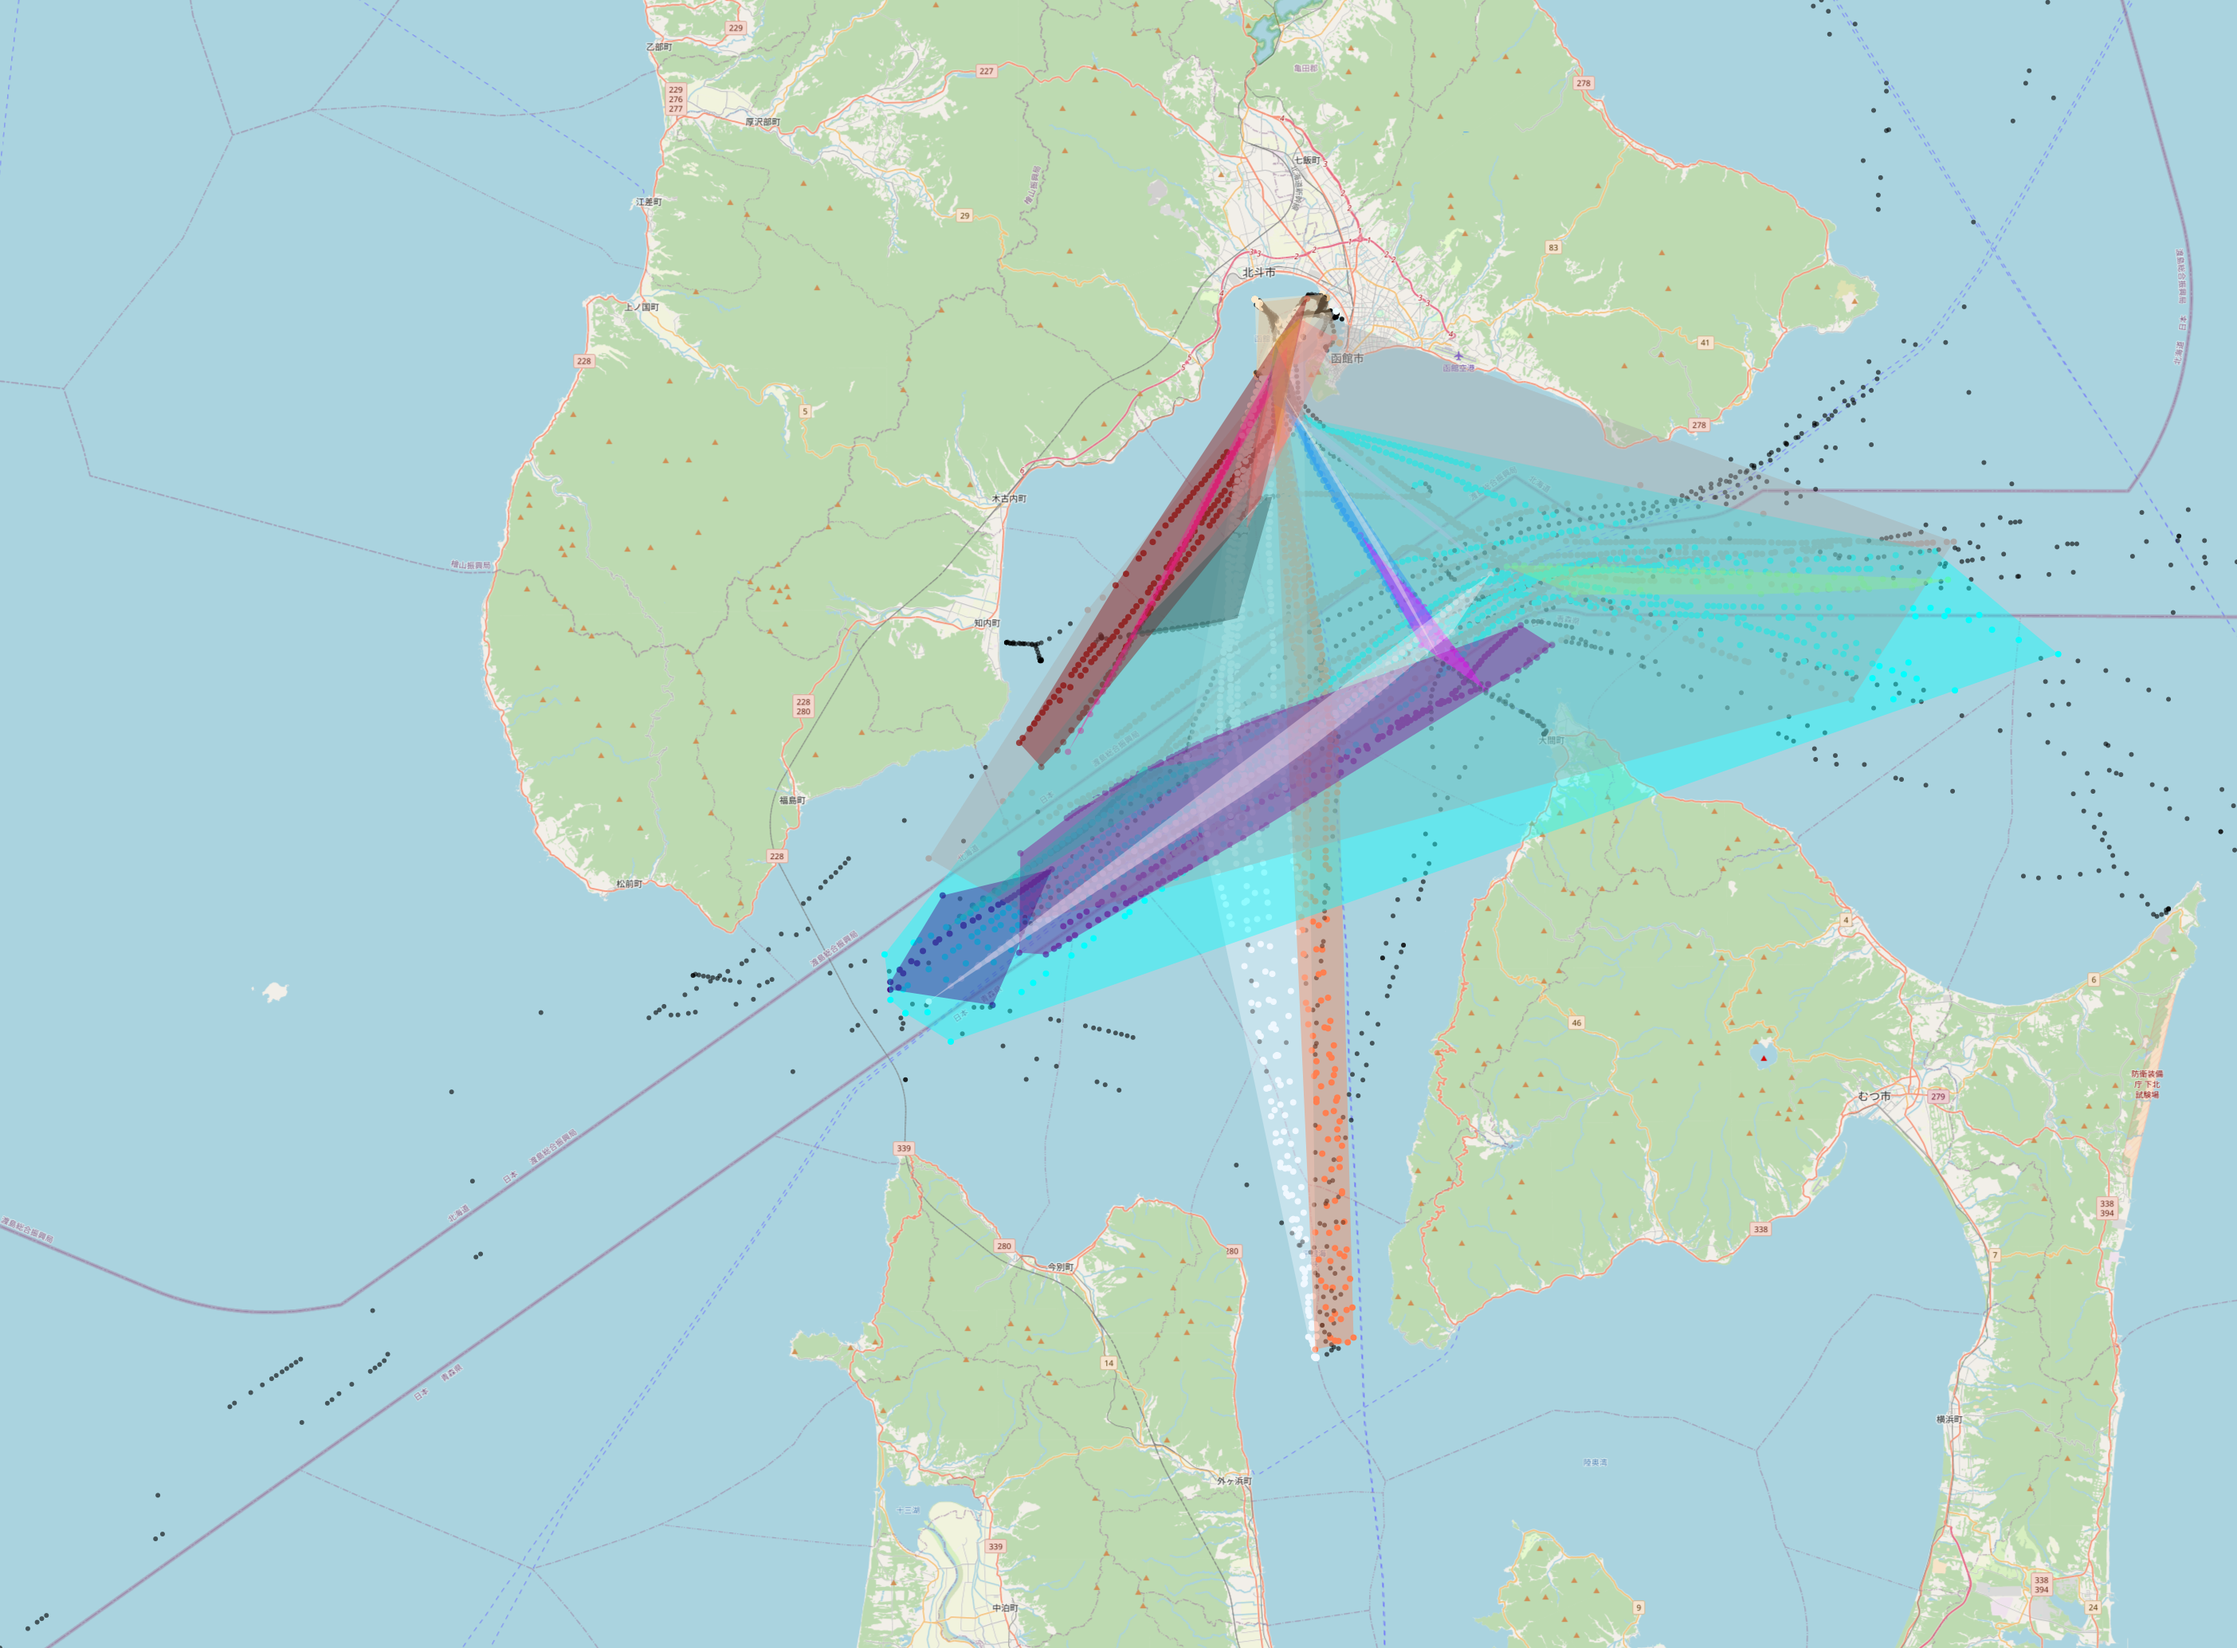
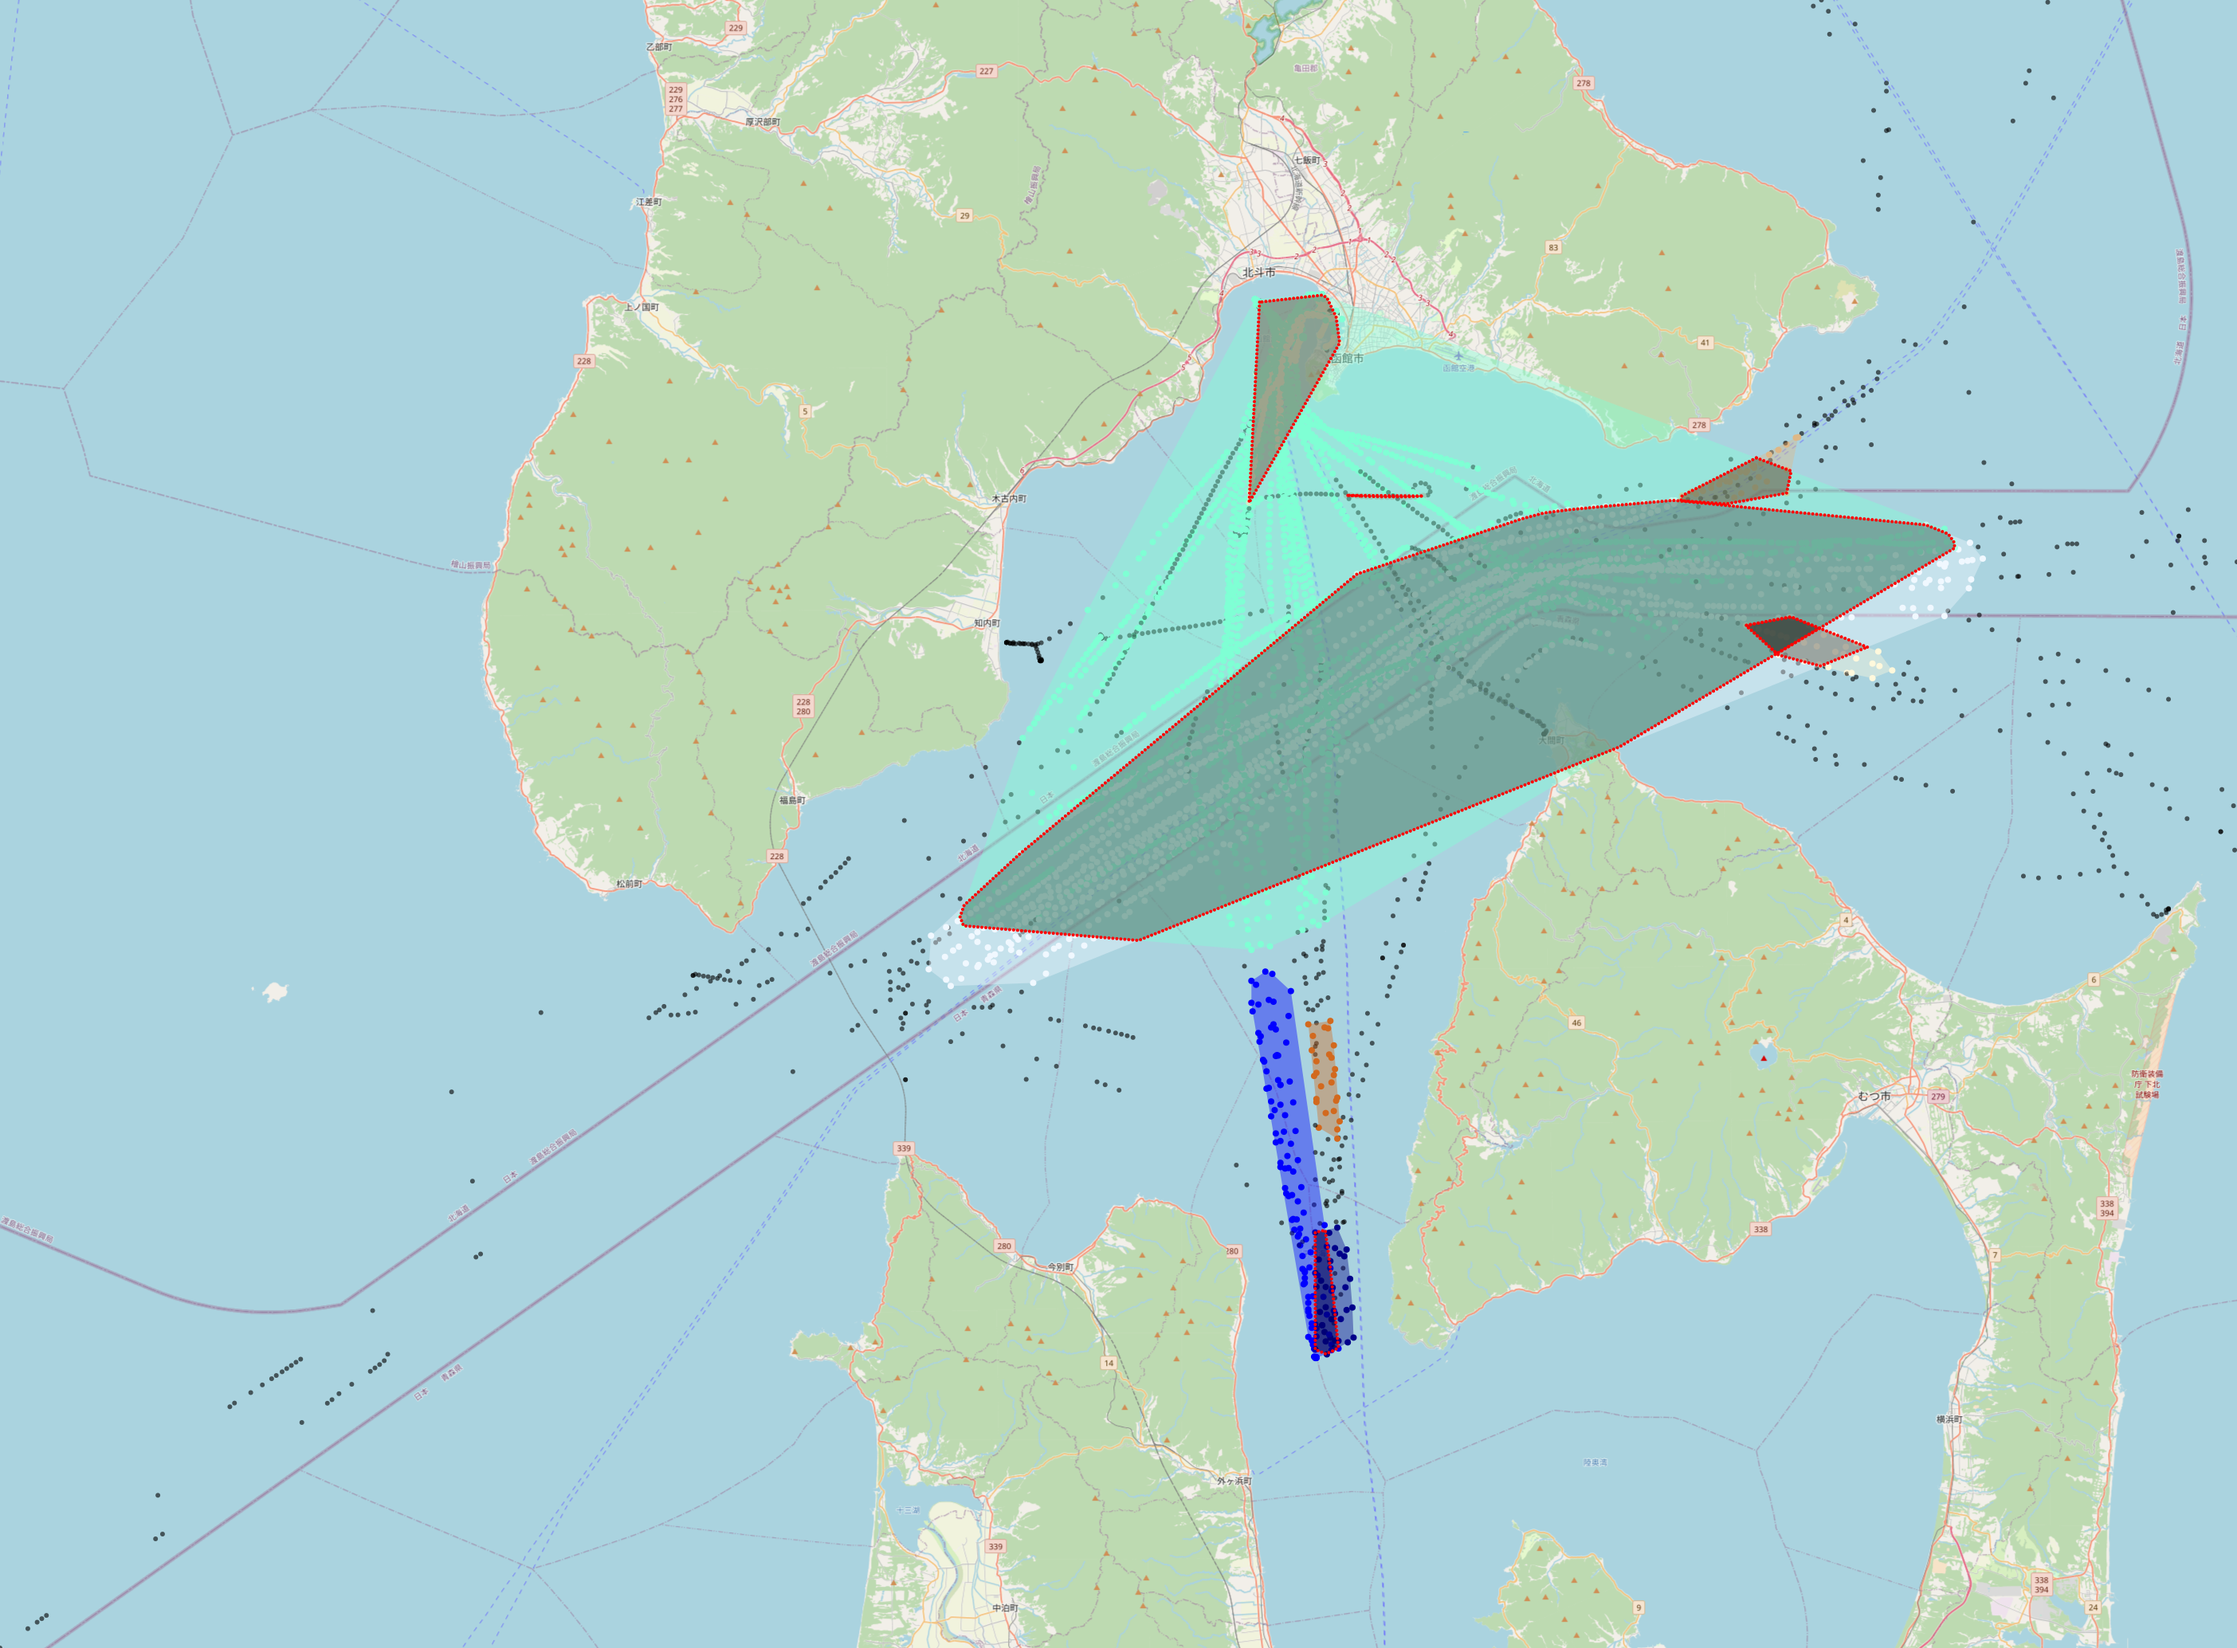
Добавлена обработка пересечения полигонов, на границу пересечения нанесены точки с задаваемым интервалом

Changed region(s): [[0.3719, 0.1547, 0.9298, 0.8356]]

diff --git a/CODE/Map/map.py b/CODE/Map/map.py
@@ -8,6 +8,7 @@ import math
 import mercantile
 import matplotlib.colors as mcolors
 import shapely
+import numpy as np
 
 
 def get_map(west, south, east, north, zoom, df, name, create_new_clean_map=False):
@@ -123,6 +124,7 @@ def map_paint(map_image, df, left_top, kx, ky, name):
 
     context = Context(map_image)
     df1 = pandas.DataFrame(columns=['x', 'y', 'cluster'])
+    color_costyl = 3
     for i, row in df.iterrows():
         # gps в web-mercator
         x, y = mercantile.xy(row['lat'], row['lon'])
@@ -138,9 +140,9 @@ def map_paint(map_image, df, left_top, kx, ky, name):
                 alpha = 0.6
                 r = 3
             else:
-                red = colors[int(row['cluster']) * 4][0]
-                green = colors[int(row['cluster']) * 4][1]
-                blue = colors[int(row['cluster']) * 4][2]
+                red = colors[int(row['cluster']) * color_costyl][0]
+                green = colors[int(row['cluster']) * color_costyl][1]
+                blue = colors[int(row['cluster']) * color_costyl][2]
                 alpha = 1
                 r = 4
         else:
@@ -153,24 +155,62 @@ def map_paint(map_image, df, left_top, kx, ky, name):
         # Добавляем расчитанную точку в новый датафрейм
         df1.loc[df1.shape[0]] = [x, y, row['cluster']]
 
+    # Создаем и добавляем полигоны
+    polygons = []
+    polygon_bounds = []
     if 'cluster' in df.columns:
         for i in range(int(max(df['cluster'])) + 1):
-            df2 = df1.where(df1['cluster'] == i).dropna(how='any')
-            polygon_geom = shapely.Polygon(zip(df2['x'].values.tolist(), df2['y'].values.tolist()))
+            polygons.append(df1.where(df1['cluster'] == i).dropna(how='any'))
+            polygon_geom = shapely.Polygon(zip(polygons[i]['x'].values.tolist(), polygons[i]['y'].values.tolist()))
             polygon_geom2 = shapely.geometry.LinearRing(polygon_geom.exterior.coords).convex_hull
-            try:
+            # Проверка класса polygon_geom2, без этого код может падать из-за Linestring вместо Polygon
+            if isinstance(polygon_geom2, shapely.Polygon):
                 a, b = polygon_geom2.exterior.coords.xy
-                bounds = tuple(list(zip(a, b)))
-                red = colors[i*4][0]
-                green = colors[i*4][1]
-                blue = colors[i*4][2]
+                polygon_bounds.append(tuple(list(zip(a, b))))
+                red = colors[i * color_costyl][0]
+                green = colors[i * color_costyl][1]
+                blue = colors[i * color_costyl][2]
                 alpha = 0.4
                 context.set_source_rgba(red, green, blue, alpha)
-                for dot in bounds:
+                # Берем последний элемент массива из-за рассинхронизации со счетчиком i
+                for dot in polygon_bounds[-1]:
                     context.line_to(dot[0], dot[1])
                 context.fill()
-            except AttributeError:
-                pass
+
+    # Ищем пересечения полигонов
+    intersections = []
+    intersection_bounds = []
+    for i in range(len(polygon_bounds)):
+        for j in range(i + 1, len(polygon_bounds)):
+            if shapely.intersects(shapely.Polygon(polygon_bounds[i]), shapely.Polygon(polygon_bounds[j])):
+                intersections.append(shapely.intersection(shapely.Polygon(polygon_bounds[i]),
+                                                          shapely.Polygon(polygon_bounds[j])))
+    for i in range(len(intersections)):
+        # Проверка, является ли i-ое intersection непустым (экземпляром класса Polygon)
+        if isinstance(intersections[i], shapely.Polygon):
+            a, b = intersections[i].exterior.coords.xy
+            intersection_bounds.append(tuple(list(zip(a, b))))
+    for i in range(len(intersection_bounds)):
+        red = 0
+        green = 0
+        blue = 0
+        alpha = 0.3
+        context.set_source_rgba(red, green, blue, alpha)
+        for dot in intersection_bounds[i]:
+            context.line_to(dot[0], dot[1])
+        context.fill()
+
+    # Накидываем точки на границу пересечения полигонов
+    # Пока что не сохраняю, для какого пересечения и каких кластеров получены точки
+    points = []
+    for i in range(len(intersection_bounds)):
+        distance_delta = 5
+        distances = np.arange(0, shapely.LineString(intersection_bounds[i]).length, distance_delta)
+        points.append([shapely.LineString(intersection_bounds[i]).interpolate(distance) for distance in distances])
+        for dot in points[-1]:
+            context.arc(dot.x, dot.y, 2, 0 * math.pi / 180, 360 * math.pi / 180)
+            context.set_source_rgba(255, 0, 0, 1)
+            context.fill()
 
     with open(f'../Map/clustered_{name}', 'wb') as f:
         map_image.write_to_png(f)

diff --git a/CODE/Main/main.py b/CODE/Main/main.py
@@ -1,12 +1,12 @@
-from sklearn.cluster import DBSCAN
-import numpy as np
-from Map.map import get_map
-from LoadData.load_data import load_data
 import mpu
+import numpy as np
+from sklearn.cluster import DBSCAN
+from LoadData.load_data import load_data
+from Map.map import get_map
 
 
 def main(nrows=None):
-    file_name = '11.11.2015'
+    file_name = '12.11.2015'
     # Пока что берем данные для одного дня, если брать больше - DBSCAN работает крайне долго
     df = load_data(f'{file_name}.xlsx', 'marine.xlsx', create_new_clean_xlsx=False)
     min_lat = df['lat'].min()
@@ -16,23 +16,26 @@ def main(nrows=None):
     if nrows:
         df = df.head(nrows)
 
-    # Хромая на обе ноги демонстрация DBSCAN, параметры не подобраны, метрика уже кастомная, веса наугад
-    # dist_list = []
+    # Хромая на обе ноги демонстрация DBSCAN, параметры не подобраны, метрика уже кастомная, веса почти наугад...
 
-    def custom_dist(a, b, w1, w2, w3, w4):
+    def custom_dist(a, b, w1, w2, w3):
         # Считаем дистанцию в километрах
         # При таком варианте реализации метрики картина заметно улучшается
-        # Вес w1 сейчас отвечает за расстояние между судами, w2 лишний
-        euclidean_dist = round(mpu.haversine_distance((a[1], a[0]), (b[1], b[0])), 3)
+        # w1 - расстояние, w2 - скорость, w3 - курс
         # dist = (np.sqrt(w1 * (a[0] - b[0]) ** 2 + w2 * (a[1] - b[1]) ** 2 +
         #                 w3 * (a[2] - b[2]) ** 2 + w4 * (a[3] - b[3]) ** 2))
-        dist = np.sqrt(w1 * euclidean_dist ** 2 + w2 * 0 +
-                       w3 * (a[2] - b[2]) ** 2 + w4 * (a[3] - b[3]) ** 2)
-        # dist_list.append(dist)
+        euclidean_dist = mpu.haversine_distance((a[1], a[0]), (b[1], b[0]))
+        dist = (w1 * euclidean_dist ** 2 + w2 * (a[2] - b[2]) ** 2 + w3 * (a[3] - b[3]) ** 2) ** 0.25
         return dist
 
-    clusters = DBSCAN(eps=11.5, min_samples=23, metric=custom_dist,
-                      metric_params={'w1': 1.2, 'w2': 1.2, 'w3': 1, 'w4': 1.2}).fit_predict(df)
+    # w1 - расстояние, w2 - скорость, w3 - курс
+    # расстояние * w1, скорость * w2, курс * w3 = 100 при дефолтном значении (до умножения)
+    # для разницы в курсе = 12, скорости = 50, расстоянии = 0.5
+    clusters = DBSCAN(eps=8.888, min_samples=16, metric=custom_dist,
+                      metric_params={'w1': 400 * 2, 'w2': 0.004 * 4, 'w3': 0.7 * 32}).fit_predict(df)
+    # clusters = DBSCAN(eps=11.5, min_samples=23, metric=custom_dist,
+    #                   metric_params={'w1': 1.2, 'w2': 1.2, 'w3': 1.2, 'w4': 1.2}).fit_predict(df)
+
     df['cluster'] = clusters
     print('Всего кластеров:', max(df['cluster']) + 1)
 

diff --git a/CODE/LoadData/load_data.py b/CODE/LoadData/load_data.py
@@ -2,27 +2,29 @@ import os.path
 
 import pandas as pd
 
-pd.set_option('display.max_rows', None, 'display.max_columns', None)
 
+# pd.set_option('display.max_rows', None, 'display.max_columns', None)
+#
 
-# state_on_date - файл с данными за день, marine - файл с данными о судах
-# clean_{state_on_date} - подготовленный файл с данными за день
-def load_data(state_on_date, marine, create_new_clean_xlsx=False):
-    if os.path.exists('../DB/clean_' + state_on_date) and not create_new_clean_xlsx:
-        df = pd.read_excel('../DB/clean_' + state_on_date)
+# data_file_name - название файла с данными за день
+# marine_file_name - название файла с данными о судах
+# clean_{file_name} - подготовленный файл с данными за день
+def load_data(data_file_name, marine_file_name, create_new_clean_xlsx=False):
+    if os.path.exists('../DB/clean_' + data_file_name) and not create_new_clean_xlsx:
+        df = pd.read_excel('../DB/clean_' + data_file_name)
         return df
     else:
-        df = pd.read_excel('../DB/' + state_on_date)
-        df_marine = pd.read_excel('../DB/' + marine)
-        df = process_data(df, df_marine, state_on_date)
+        df = pd.read_excel('../DB/' + data_file_name)
+        df_marine = pd.read_excel('../DB/' + marine_file_name)
+        df = process_data(df, df_marine, data_file_name)
         return df
 
 
-def process_data(df, df_marine, name):
-    df = df.drop(columns={'id_track', 'age', 'date_add'})
-    df = df.drop_duplicates()
-    df = pd.merge(df, df_marine[['id_marine', 'port', 'length']], how='left', on='id_marine').dropna(axis=0)
-    df = df.loc[(df['course'] != 511) & (df['port'] != 0) & (df['length'] != 0)].reset_index(drop=True)
-    df = df[['lat', 'lon', 'speed', 'course']]
-    df.to_excel(f'../DB/clean_{name}', index=False)
-    return df
+def process_data(df_data, df_marine, data_file_name):
+    df_data = df_data.drop(columns={'id_track', 'age', 'date_add'})
+    df_data = df_data.drop_duplicates()
+    df_data = pd.merge(df_data, df_marine[['id_marine', 'port', 'length']], how='left', on='id_marine').dropna(axis=0)
+    df_data = df_data.loc[(df_data['course'] != 511) & (df_data['port'] != 0) & (df_data['length'] != 0)].reset_index(drop=True)
+    df_data = df_data[['lat', 'lon', 'speed', 'course']]
+    df_data.to_excel(f'../DB/clean_{data_file_name}', index=False)
+    return df_data
